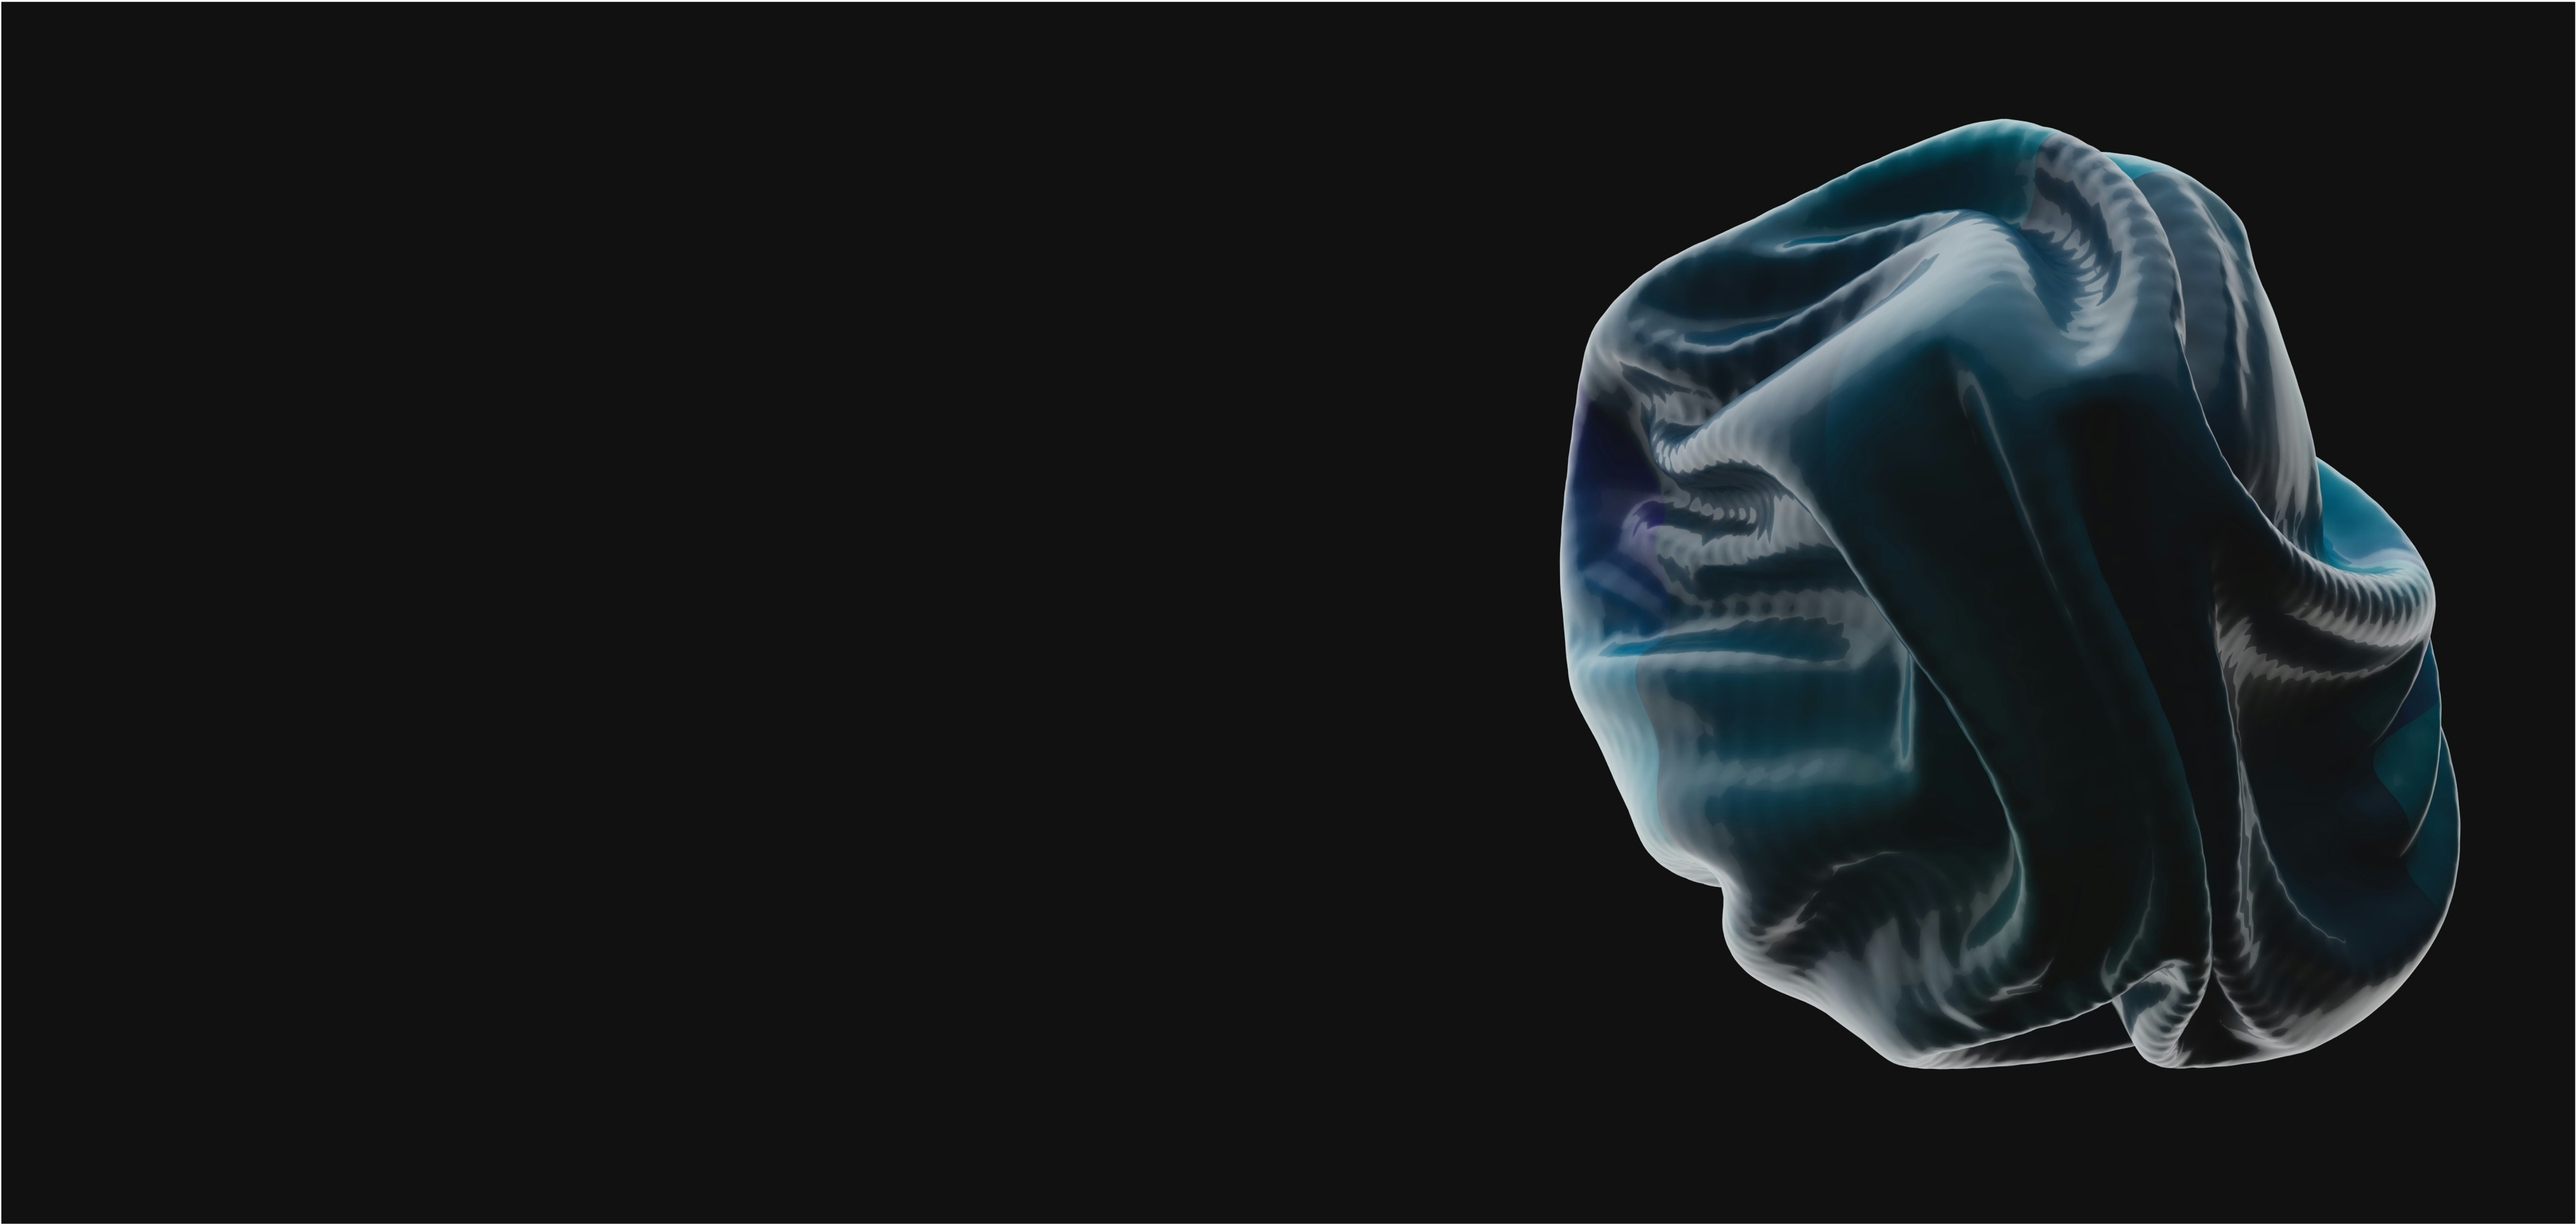
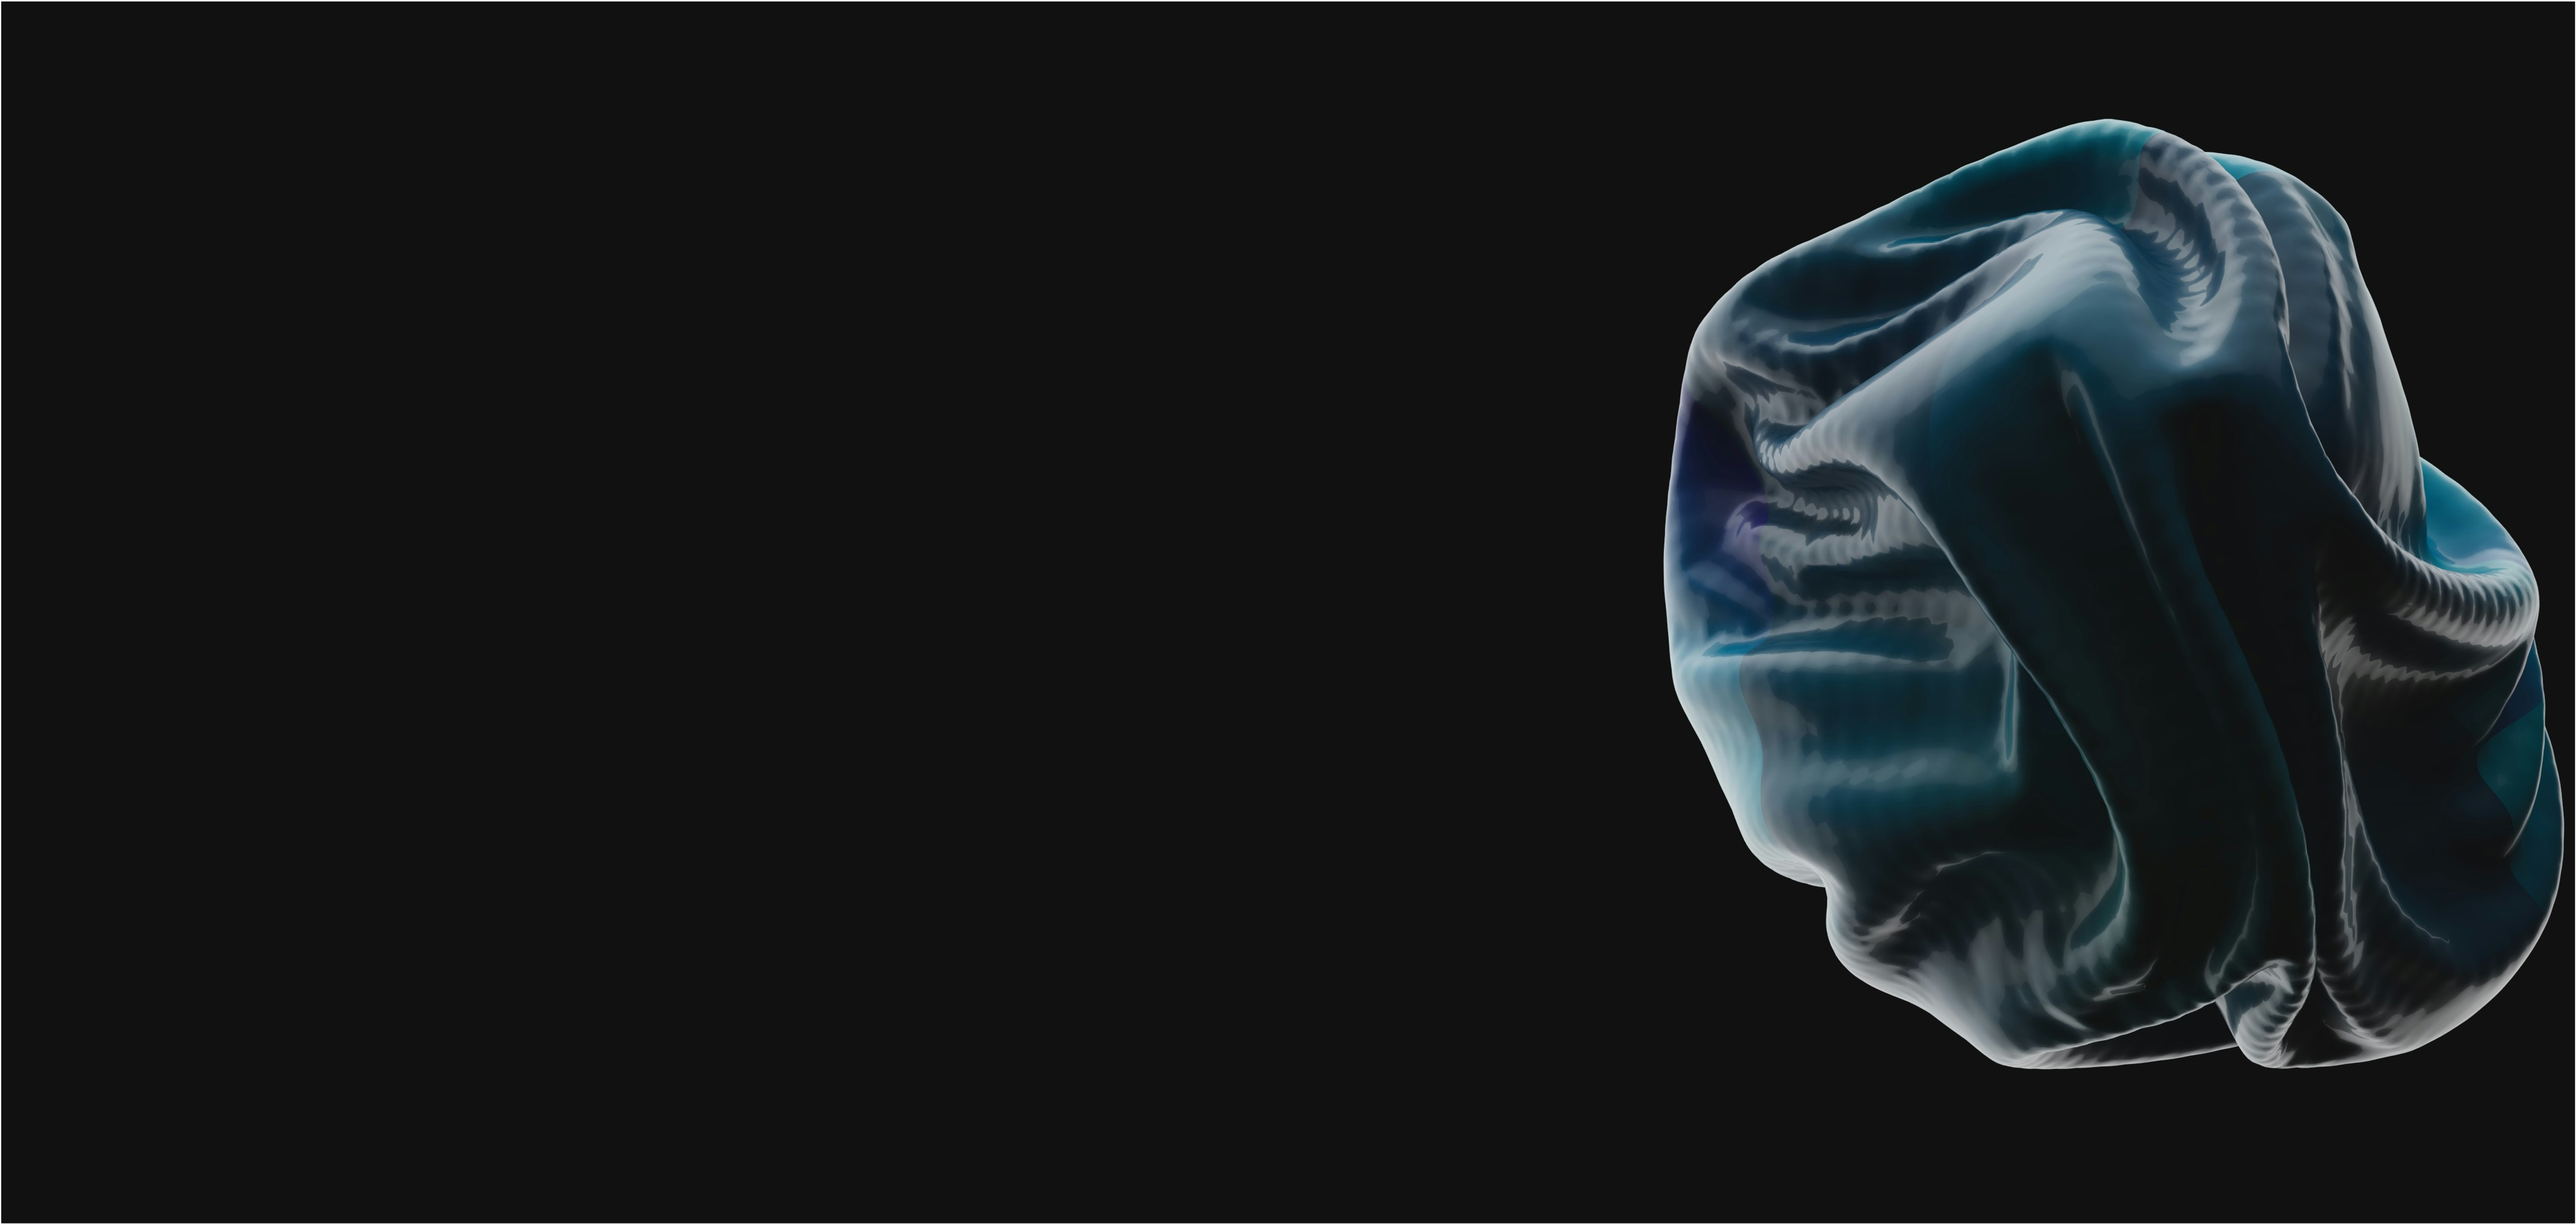
init

Changed region(s): [[0.0, 0.0, 1.0, 1.0]]

diff --git a/content/_index.md b/content/_index.md
@@ -16,7 +16,7 @@ sections:
     design:
     
       spacing:
-        padding: ["10rem", "10rem", 0 , 0]
+        padding: ["10rem", 0, 0 , 0]
       columns: 1
       css_class: "dark min-h-screen"
       background:
@@ -42,7 +42,7 @@ sections:
         </div>
     design:
       spacing:
-        padding: ["5rem", "10rem", 0, 0]
+        padding: ["5rem", 0, 0, 0]
       columns: 1
       css_class: "dark "
       background:
@@ -89,7 +89,7 @@ sections:
         </div>
     design:
       spacing:
-        padding: ["10rem", "12rem", "10rem", 0 ]
+        padding: ["10rem", 0, "10rem", 0 ]
       columns: 1
       css_class: "dark min-h-screen"
       background:
@@ -121,7 +121,7 @@ sections:
         </div>
     design:
       spacing:
-        padding: ["10rem", 0, 0, "10rem"]
+        padding: ["10rem", 0, 0, 0]
       columns: 1
       css_class: "dark"
       background:
@@ -162,7 +162,7 @@ sections:
           </div>
     design:
       spacing:
-        padding: ["10rem", 0 , 0, "10rem"]
+        padding: ["10rem", 0 , 0, 0]
       columns: 1
       css_class: "dark min-h-screen"
       background:
@@ -261,7 +261,7 @@ sections:
         # </div>
     design:
       spacing:
-        padding: ["10rem", 0, "20rem", "10rem"]
+        padding: ["10rem", 0, "20rem", 0]
       columns: 1
       css_class: "dark"
       background:
@@ -296,9 +296,9 @@ sections:
         </div>
     design:
       spacing:
-        padding: ["10rem", "10rem", 0, 0]
+        padding: ["10rem", 0, 0, 0]
       columns: 1
-      css_class: "dark"
+      css_class: "dark min-h-screen"
       background:
         color: "#111111"
         image:
@@ -321,7 +321,7 @@ sections:
         </div>
     design:
       spacing:
-        padding: ["10rem", "10rem", "5rem", 0]
+        padding: ["10rem", 0, "5rem", 0]
       columns: 1
       css_class: "dark"
       background:
